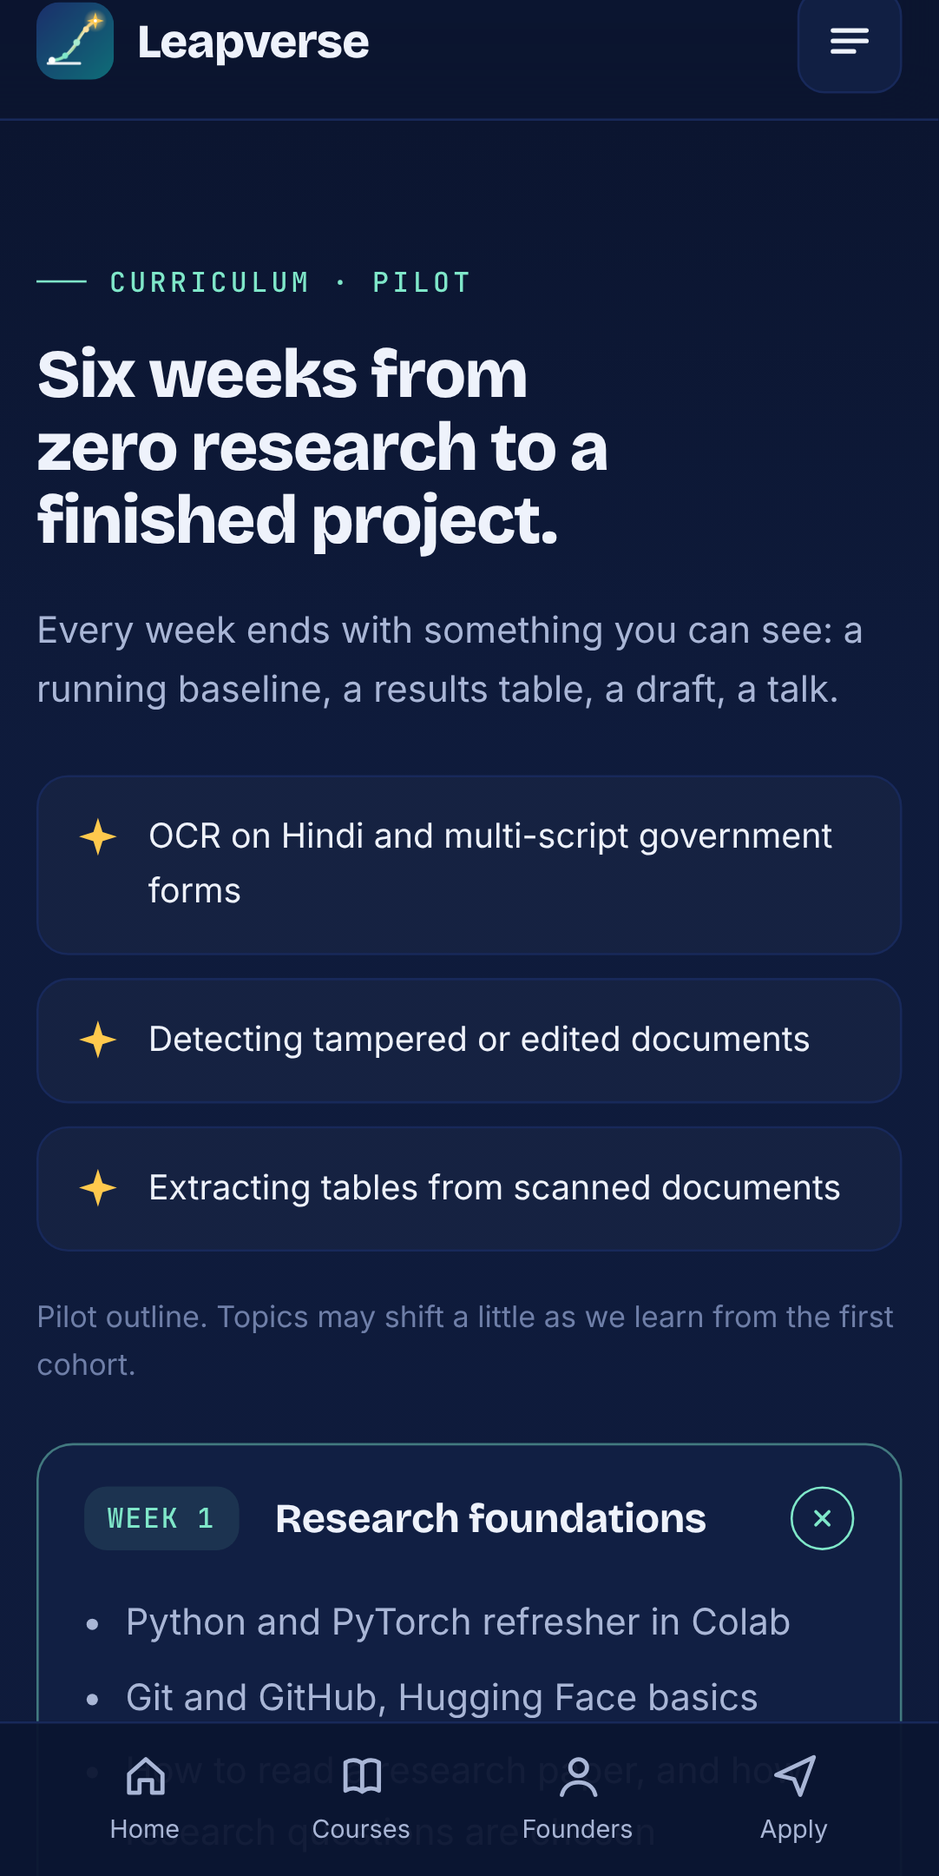
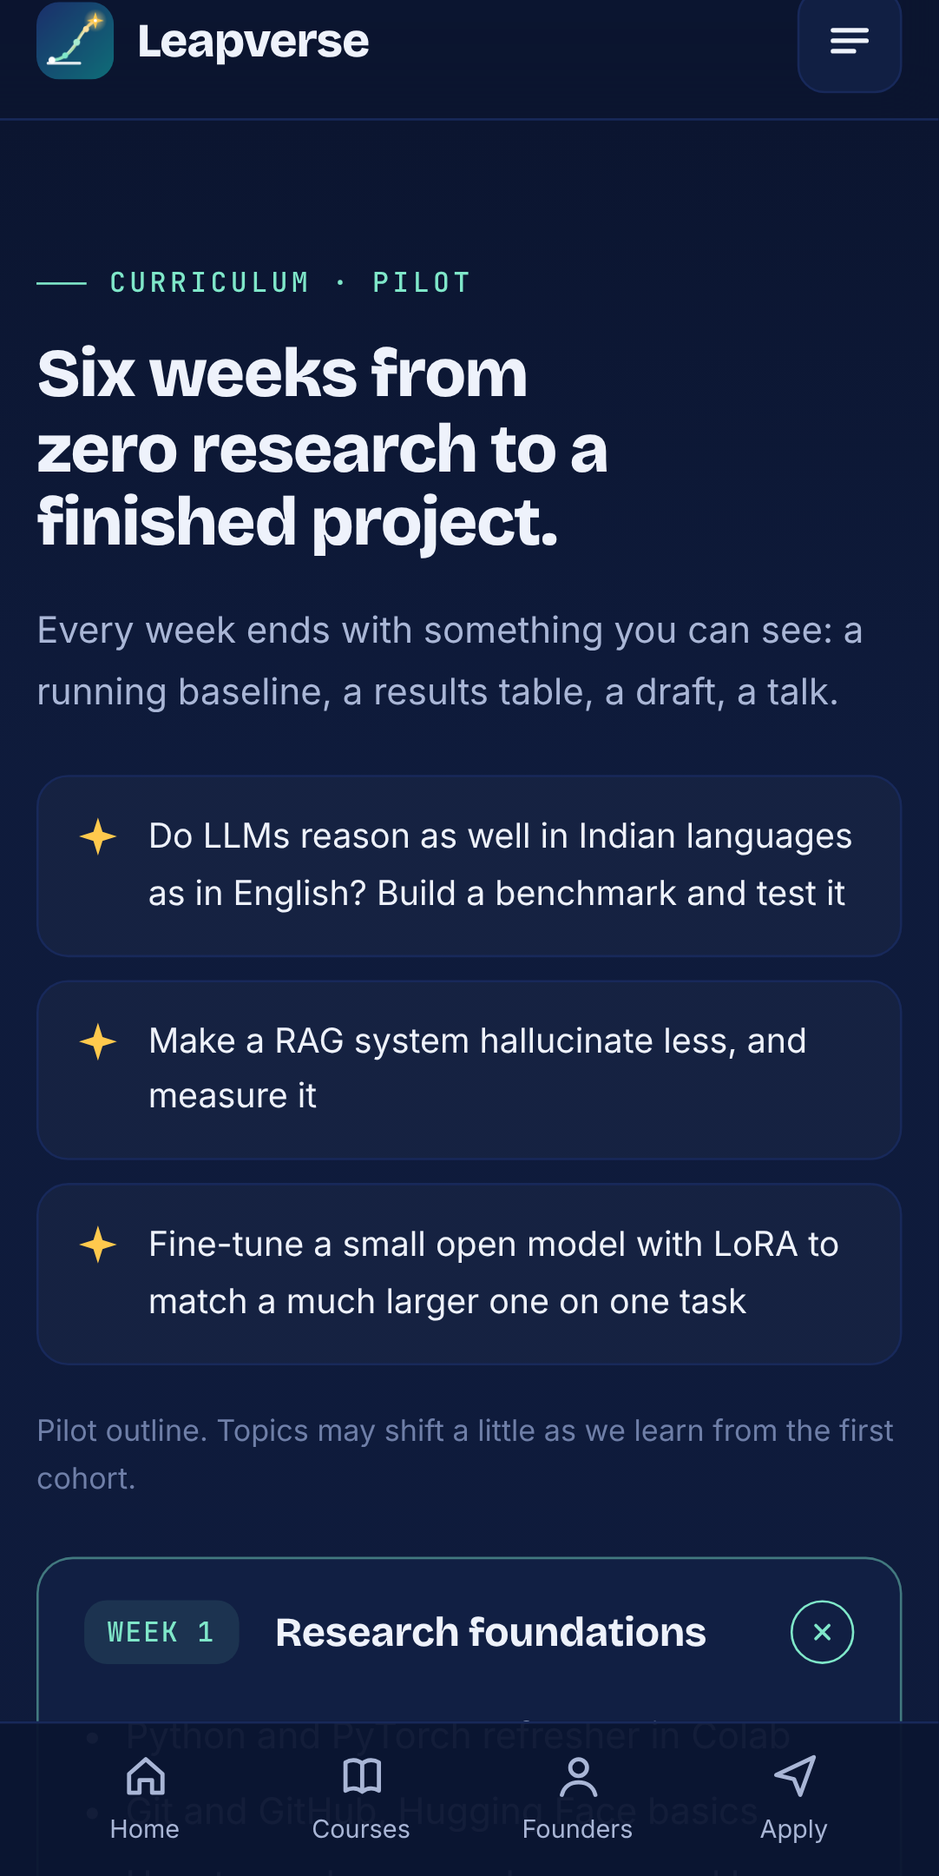
Refocus the site on the latest AI research and host from this repository
The pilot is now a general AI Research Track (LLMs, agents, RAG,
multimodal, fine-tuning, evaluation) instead of document AI. The launch
guide and Android settings now assume GitHub Pages on this repository.

Claude-Session: https://claude.ai/code/session_01D4WqPf5nvVfwbcwiaTwXmP

diff --git a/website/index.html b/website/index.html
@@ -7,7 +7,7 @@
 <meta name="description" content="Leapverse runs mentored AI research projects led by IIT researchers. Build a real project, a paper-style report and a talk, and apply for research internships, MS/PhD and AI jobs with proof.">
 <meta name="theme-color" content="#0b1530">
 <meta property="og:title" content="Leapverse: leap into AI, research and beyond">
-<meta property="og:description" content="Mentored AI research projects led by IIT researchers. Start with the 6-week Document AI Research Track.">
+<meta property="og:description" content="Mentored AI research projects led by IIT researchers. Start with the 6-week AI Research Track on the latest in LLMs, agents and multimodal AI.">
 <meta property="og:image" content="assets/og-image.png">
 <meta property="og:type" content="website">
 <meta name="twitter:card" content="summary_large_image">
@@ -140,6 +140,7 @@ body::before{content:"";position:fixed;inset:0 0 auto;height:env(safe-area-inset
 .facts{display:flex;flex-wrap:wrap;gap:8px}
 .facts span{font-size:13px;padding:6px 11px;border-radius:999px;border:1px solid var(--ink-3);color:var(--text);background:rgba(255,255,255,.03)}
 .mini{display:grid;gap:16px}
+.areas span{font-size:14px;padding:8px 14px;border-color:rgba(127,231,201,.3);background:rgba(127,231,201,.06)}
 @media (max-width:860px){.tracks{grid-template-columns:1fr}.track.feature{grid-row:auto}}
 
 /* curriculum */
@@ -318,9 +319,9 @@ footer a:hover{color:var(--text)}
   <section class="hero" aria-label="Introduction">
     <canvas id="sky" aria-hidden="true"></canvas>
     <div class="wrap">
-      <a class="pill" href="#apply"><b>Pilot</b>Document AI Research Track · 6 weeks · applications open</a>
+      <a class="pill" href="#apply"><b>Pilot</b>AI Research Track · 6 weeks · applications open</a>
       <h1>Leap into <span class="grad">AI, research</span> and beyond.</h1>
-      <p class="lede">Do a real AI research project with mentors who are doing research right now. In six weeks you build working code, a paper-style report and a talk, then use them to apply for research internships, MS/PhD programs and AI jobs.</p>
+      <p class="lede">Work on the latest AI research, from LLMs and agents to multimodal models, with mentors who are doing research right now. In six weeks you build working code, a paper-style report and a talk, then use them to apply for research internships, MS/PhD programs and AI jobs.</p>
       <div class="hero-cta">
         <a class="btn btn-gold" href="#apply">Apply for the pilot<svg><use href="#i-arrow"/></svg></a>
         <a class="btn btn-ghost" href="#curriculum">See the 6-week plan</a>
@@ -354,7 +355,7 @@ footer a:hover{color:var(--text)}
       <div class="who">
         <div class="who-card reveal"><span class="tag">Internships</span><h3>Research-internship applicants</h3><p>2nd and 3rd year students applying to programs like SRIP, GRISHMA, RISE UP, iKDD Uplink, MITACS or DAAD WISE who have no research to show yet.</p></div>
         <div class="who-card reveal"><span class="tag">Higher studies</span><h3>MS and PhD aspirants</h3><p>A real first project with mentor feedback, a paper draft and a talk, which is what admissions committees look for.</p></div>
-        <div class="who-card reveal"><span class="tag">Careers</span><h3>Future document-AI engineers</h3><p>Banking, fintech, insurance, govtech and legal tech need OCR and document AI that work on Indian documents.</p></div>
+        <div class="who-card reveal"><span class="tag">Careers</span><h3>Future AI engineers and scientists</h3><p>Teams building with LLMs and agents hire people who can read new papers, run careful experiments and explain their results.</p></div>
         <div class="who-card reveal"><span class="tag">Colleges</span><h3>Final-year project batches</h3><p>A guided research-project program for a whole batch, or a 2-day intro to AI research workshop.</p></div>
       </div>
     </div>
@@ -366,14 +367,16 @@ footer a:hover{color:var(--text)}
       <div class="sec-head reveal">
         <span class="eyebrow">Courses</span>
         <h2>Start with one track. <span class="grad">Grow into the universe.</span></h2>
+        <p class="lede">We teach what the field is working on now. Research areas for the current cohort:</p>
+        <div class="facts areas"><span>Large language models</span><span>AI agents and tool use</span><span>Retrieval and RAG</span><span>Vision-language and multimodal AI</span><span>Efficient fine-tuning (LoRA)</span><span>Evaluation and benchmarks</span><span>AI safety and reliability</span><span>Generative models</span></div>
       </div>
       <div class="tracks">
         <article class="track feature reveal">
           <span class="status open">Pilot · applications open</span>
-          <h3>Document AI Research Track</h3>
-          <p>Build AI that reads real Indian documents: OCR on Hindi and multi-script forms, spotting tampered documents, pulling tables out of scans. Generic OCR often fails on these, so there is real research to do and real demand for people who can do it.</p>
+          <h3>AI Research Track</h3>
+          <p>Pick a problem from the latest AI research and take it from paper to results. Topics follow what the field is working on now: large language models, retrieval and RAG, AI agents, vision-language models, efficient fine-tuning and model evaluation. Topics are refreshed every cohort, so you always work on current research.</p>
           <div class="facts"><span>6 weeks</span><span>Live weekly class</span><span>Weekly mentor review</span><span>Team project</span><span>Demo day</span></div>
-          <p>Tools you will use: Python, PyTorch, Hugging Face, OpenCV, Tesseract, PaddleOCR, TrOCR, Donut and LayoutLM-style models, GitHub, Colab and Overleaf.</p>
+          <p>Tools you will use: Python, PyTorch, Hugging Face Transformers and PEFT, open LLMs and vision-language models, vector search, Weights &amp; Biases, GitHub, Colab and Overleaf.</p>
           <div><a class="btn btn-gold" href="#apply">Apply for the pilot<svg><use href="#i-arrow"/></svg></a></div>
         </article>
         <div class="mini">
@@ -405,9 +408,9 @@ footer a:hover{color:var(--text)}
         <h2>Six weeks from zero research to a finished project.</h2>
         <p class="lede">Every week ends with something you can see: a running baseline, a results table, a draft, a talk.</p>
         <div class="projects" aria-label="Example projects">
-          <div><svg><use href="#i-star"/></svg><span>OCR on Hindi and multi-script government forms</span></div>
-          <div><svg><use href="#i-star"/></svg><span>Detecting tampered or edited documents</span></div>
-          <div><svg><use href="#i-star"/></svg><span>Extracting tables from scanned documents</span></div>
+          <div><svg><use href="#i-star"/></svg><span>Do LLMs reason as well in Indian languages as in English? Build a benchmark and test it</span></div>
+          <div><svg><use href="#i-star"/></svg><span>Make a RAG system hallucinate less, and measure it</span></div>
+          <div><svg><use href="#i-star"/></svg><span>Fine-tune a small open model with LoRA to match a much larger one on one task</span></div>
         </div>
         <p class="note">Pilot outline. Topics may shift a little as we learn from the first cohort.</p>
       </div>
@@ -422,14 +425,14 @@ footer a:hover{color:var(--text)}
         <details class="week reveal">
           <summary><span class="wk">WEEK 2</span><h3>The problem and a baseline</h3><span class="chev"><svg><use href="#i-plus"/></svg></span></summary>
           <div class="body">
-            <ul><li>Public and licensed datasets only, and why that matters for identity documents</li><li>Run classic OCR baselines (Tesseract, PaddleOCR)</li><li>Evaluation: character and word error rates, honest test splits</li></ul>
+            <ul><li>Find and read the 3 to 5 recent papers closest to your problem</li><li>Reproduce a published baseline with an open model, using public datasets only</li><li>Evaluation: the right metrics, honest test splits, no leakage</li></ul>
             <p class="out"><b>Output</b>A working baseline with numbers on the shared leaderboard</p>
           </div>
         </details>
         <details class="week reveal">
-          <summary><span class="wk">WEEK 3</span><h3>Modern document AI models</h3><span class="chev"><svg><use href="#i-plus"/></svg></span></summary>
+          <summary><span class="wk">WEEK 3</span><h3>Frontier models and methods</h3><span class="chev"><svg><use href="#i-plus"/></svg></span></summary>
           <div class="body">
-            <ul><li>Transformer OCR and document models: TrOCR, Donut, LayoutLM-style models</li><li>Fine-tuning on your dataset with Hugging Face</li><li>Reading the results, not just the score</li></ul>
+            <ul><li>How today's models work: transformers, LLMs, vision-language models</li><li>The methods you will use: prompting, RAG, agents and tool use, LoRA fine-tuning</li><li>Reading the results, not just the score</li></ul>
             <p class="out"><b>Output</b>A model that beats your baseline, or a clear reason why it doesn't</p>
           </div>
         </details>
@@ -495,7 +498,7 @@ footer a:hover{color:var(--text)}
       <div class="sec-head reveal">
         <span class="eyebrow">Founders</span>
         <h2>Taught by people doing the research.</h2>
-        <p class="lede">Leapverse is founded by two IIT researchers heading into PhDs, who work on OCR and document verification and who love teaching it.</p>
+        <p class="lede">Leapverse is founded by two IIT researchers heading into PhDs, who follow the latest AI research closely and love teaching it.</p>
       </div>
       <div class="founders">
         <article class="founder reveal">
@@ -504,7 +507,7 @@ footer a:hover{color:var(--text)}
             <div><h3 style="font-size:26px">Shikhar Dubey</h3><div class="role">Co-founder · Academics and Content</div></div>
           </div>
           <ul>
-            <li><svg><use href="#i-check"/></svg><span>Researcher in OCR and document verification</span></li>
+            <li><svg><use href="#i-check"/></svg><span>AI researcher in computer vision</span></li>
             <li><svg><use href="#i-check"/></svg><span>Presented a research portfolio at IIT Bombay</span></li>
             <li><svg><use href="#i-check"/></svg><span>Workshop speaker at ICVGIP, India's computer vision and graphics conference</span></li>
             <li><svg><use href="#i-check"/></svg><span><span class="todo">Add: degree, institute and PhD plans</span></span></li>
@@ -519,7 +522,7 @@ footer a:hover{color:var(--text)}
             <div><h3 style="font-size:26px">Sanhita Saxena</h3><div class="role">Co-founder · Product and Growth</div></div>
           </div>
           <ul>
-            <li><svg><use href="#i-check"/></svg><span>Researcher in OCR and document verification</span></li>
+            <li><svg><use href="#i-check"/></svg><span>AI researcher in computer vision</span></li>
             <li><svg><use href="#i-check"/></svg><span>Web developer who builds the Leapverse platform</span></li>
             <li><svg><use href="#i-check"/></svg><span>Ran many seminars during BTech</span></li>
             <li><svg><use href="#i-check"/></svg><span><span class="todo">Add: degree, institute and PhD plans</span></span></li>
@@ -543,7 +546,7 @@ footer a:hover{color:var(--text)}
       <div class="prices">
         <div class="price reveal"><span class="lvl">Free</span><div class="amt">₹0</div><ul><li>YouTube lessons</li><li>Live webinars on research internships</li><li>"How to read a paper" guide</li></ul></div>
         <div class="price reveal"><span class="lvl">Starter</span><div class="amt">₹499<small> onwards</small></div><ul><li>Paper-reading bootcamp</li><li>Recorded, 1 to 2 weeks</li><li>Go at your own pace</li></ul></div>
-        <div class="price hot reveal"><span class="lvl">Pilot cohort</span><div class="amt">₹2,999<small> onwards</small></div><ul><li>6-week Document AI Research Track</li><li>Live classes and team project</li><li>Weekly mentor review, demo day</li></ul><a class="btn btn-gold" href="#apply">Apply</a></div>
+        <div class="price hot reveal"><span class="lvl">Pilot cohort</span><div class="amt">₹2,999<small> onwards</small></div><ul><li>6-week AI Research Track</li><li>Live classes and team project</li><li>Weekly mentor review, demo day</li></ul><a class="btn btn-gold" href="#apply">Apply</a></div>
         <div class="price reveal"><span class="lvl">Add-ons</span><div class="amt">₹499<small> onwards</small></div><ul><li>Research CV review</li><li>Mock research interview</li><li>Paper review</li></ul></div>
       </div>
     </div>
@@ -585,7 +588,7 @@ footer a:hover{color:var(--text)}
           <div class="field"><label for="f-year">Year of study</label>
             <select id="f-year" name="year"><option>1st year</option><option selected>2nd year</option><option>3rd year</option><option>4th year</option><option>Graduate</option><option>Other</option></select></div>
           <div class="field"><label for="f-goal">I'm interested in</label>
-            <select id="f-goal" name="goal"><option>Pilot: Document AI Research Track</option><option>Research internships</option><option>MS / PhD admissions</option><option>GATE DA, applied</option><option>My college (workshops or batch program)</option></select></div>
+            <select id="f-goal" name="goal"><option>Pilot: AI Research Track</option><option>Research internships</option><option>MS / PhD admissions</option><option>GATE DA, applied</option><option>My college (workshops or batch program)</option></select></div>
           <div class="field full"><label for="f-msg">Anything else? (optional)</label><textarea id="f-msg" name="message"></textarea></div>
           <div class="field full"><button class="btn btn-gold" type="submit"><svg><use href="#i-send"/></svg>Send my application</button></div>
           <p class="form-msg" id="formMsg" role="status" aria-live="polite"></p>

diff --git a/website/sw.js b/website/sw.js
@@ -1,6 +1,6 @@
 // Leapverse service worker: makes the site installable and usable offline.
 // Bump VERSION whenever you change files so phones pick up the new site.
-const VERSION = "leapverse-v1";
+const VERSION = "leapverse-v2";
 const CORE = ["./", "index.html", "privacy.html", "manifest.webmanifest", "assets/icon.svg", "assets/icon-192.png", "assets/icon-512.png"];
 
 self.addEventListener("install", e => {

diff --git a/docs/06-website-and-app-launch.md b/docs/06-website-and-app-launch.md
@@ -12,7 +12,7 @@ Written 11 November 2026. The website lives in [`website/`](../website/). The An
 | Auto-deploy to GitHub Pages | `.github/workflows/deploy-website.yml` | Ready, runs when `website/` changes on `main` |
 | Android app settings for Bubblewrap | `android/twa-manifest.json` | Ready. Package name `com.leapverse.app` |
 | Play Store images: icon 512×512, feature graphic 1024×500, 5 phone screenshots | `android/store-listing/` | Ready |
-| Digital Asset Links file (removes the browser bar in the app) | `website/.well-known/assetlinks.json` | Needs your key fingerprint (step 4) |
+| Digital Asset Links file (removes the browser bar in the app) | `website/.well-known/assetlinks.json` | Needs a custom domain and your key fingerprint (step 4) |
 
 ## Before you go public: fill in these
 
@@ -23,16 +23,16 @@ Written 11 November 2026. The website lives in [`website/`](../website/). The An
 
 ## Step 1: put the website online (free)
 
-**Recommended: a separate public repository for the website.** It keeps this plan repository private, and gives you the root address `https://shikhar2004-prog.github.io/`, which the Android app needs (step 4).
+Everything is hosted from this repository. The site address will be `https://shikhar2004-prog.github.io/startup-plan/`.
 
-1. On GitHub, create a new **public** repository named exactly `Shikhar2004-prog.github.io`.
-2. Add it to this Claude project (Project settings, Repositories) and ask Claude to publish the `website/` folder to it. Or copy the contents of `website/` (including the hidden `.nojekyll` and `.well-known` folder) into it yourself.
-3. In that repository: **Settings → Pages → Build and deployment → Source: Deploy from a branch → `main` / root → Save.**
-4. After about a minute the site is live at `https://shikhar2004-prog.github.io/`.
+1. **Merge the pull request** that adds `website/` into `main`.
+2. **Allow GitHub Pages on this repository.** It is private, and GitHub only hosts private repositories on a paid plan. Pick one:
+   - **GitHub Pro, free for students (recommended):** apply for the [GitHub Student Developer Pack](https://education.github.com/pack) with your institute email. The repository stays private, so the plan and pricing docs stay hidden, and only the website is public.
+   - **Make the repository public:** Settings → General → Danger Zone → Change visibility → Public. This is instant, but everyone can then read the plan, pricing and strategy docs too.
+3. **Settings → Pages → Build and deployment → Source: GitHub Actions.**
+4. Open the **Actions** tab, choose **Deploy website**, and click **Run workflow** (it also runs by itself whenever `website/` changes on `main`). After about a minute the site is live.
 
-Other options:
-- **Keep it in this repository:** make this repository public, or get GitHub Pro (free with the GitHub Student Developer Pack). Then **Settings → Pages → Source: GitHub Actions**. The workflow publishes to `https://shikhar2004-prog.github.io/startup-plan/`. The app then needs a custom domain for step 4.
-- **Your own domain (for example leapverse.in):** buy it (check it's free first), then in the repository's **Settings → Pages → Custom domain**, enter it and add the DNS records GitHub shows. If you do this, change `host` in `android/twa-manifest.json` to the new domain.
+**Your own domain later (for example leapverse.in):** buy it, then in Settings → Pages → Custom domain, enter it and add the DNS records GitHub shows. Then change `host`, `startUrl`, `iconUrl`, `maskableIconUrl` and `webManifestUrl` in `android/twa-manifest.json` to the new domain.
 
 ## Step 2: Google Play developer account
 
@@ -59,19 +59,19 @@ Other options:
 ```bash
 npm install -g @bubblewrap/cli
 mkdir leapverse-android && cd leapverse-android
-bubblewrap init --manifest https://shikhar2004-prog.github.io/manifest.webmanifest
+bubblewrap init --manifest https://shikhar2004-prog.github.io/startup-plan/manifest.webmanifest
 # accept the defaults; use package id com.leapverse.app (as in android/twa-manifest.json)
 bubblewrap build
 # gives you app-release-bundle.aab and app-release-signed.apk
 ```
 
-## Step 4: remove the browser bar (Digital Asset Links)
+## Step 4: remove the browser bar (needs your own domain)
 
-Without this step the app still works, but shows a small browser address bar at the top.
+The app works without this step, but shows a thin browser address bar at the top. Android only hides that bar when a file called `assetlinks.json` sits at the very root of the website's domain. A site at `shikhar2004-prog.github.io/startup-plan/` cannot put a file at the root, so this step needs a custom domain (see step 1). You can publish the app first and do this later.
 
 1. After you upload the app (step 5), open Play Console → your app → **Test and release → App integrity → App signing**. Copy the **SHA-256 certificate fingerprint** of the *App signing key*.
 2. In `website/.well-known/assetlinks.json`, replace `REPLACE_WITH_SHA256_FINGERPRINT_FROM_PLAY_CONSOLE` with it. Also add the fingerprint from your own upload key (it's in PWABuilder's `assetlinks.json`), so the list has both, separated by a comma.
-3. Publish the website again. Check that `https://shikhar2004-prog.github.io/.well-known/assetlinks.json` opens in a browser.
+3. Publish the website again. Check that `https://your-domain/.well-known/assetlinks.json` opens in a browser.
 
 ## Step 5: create the app in Play Console and upload
 
@@ -81,7 +81,7 @@ Without this step the app still works, but shows a small browser address bar at 
    - Feature graphic: `feature-graphic-1024x500.png`
    - Phone screenshots: the `phone-screenshot-*.png` files (add one of the founders section after you fill in your details)
 3. **App content** (Policy → App content), answer each item:
-   - Privacy policy URL: `https://shikhar2004-prog.github.io/privacy.html`
+   - Privacy policy URL: `https://shikhar2004-prog.github.io/startup-plan/privacy.html`
    - Ads: No ads
    - App access: All functionality is available without special access
    - Content rating: fill the questionnaire (category: Education). Expect a rating for everyone
@@ -102,13 +102,13 @@ Mentored AI research projects for students. Build real work, not certificates.
 
 Leapverse helps college students make their next big leap in AI, research and careers.
 
-Do a real AI research project with mentors who are doing research right now. In six weeks you build working code, a paper-style report and a talk, then use them to apply for research internships, MS/PhD programs and AI jobs.
+Work on the latest AI research, from LLMs and agents to multimodal models, with mentors who are doing research right now. In six weeks you build working code, a paper-style report and a talk, then use them to apply for research internships, MS/PhD programs and AI jobs.
 
-START WITH THE DOCUMENT AI RESEARCH TRACK (PILOT)
+START WITH THE AI RESEARCH TRACK (PILOT)
 • 6 weeks, live online classes, recorded for rewatching
 • Teams of 2 to 3 students, weekly mentor review
-• Real problems: OCR on Hindi and multi-script forms, spotting tampered documents, extracting tables from scans
-• Tools: Python, PyTorch, Hugging Face, OpenCV, Tesseract, PaddleOCR, TrOCR, Donut, GitHub, Colab, Overleaf
+• Problems from the latest AI research: large language models, AI agents, RAG, vision-language models, fine-tuning and evaluation
+• Tools: Python, PyTorch, Hugging Face, open LLMs, vector search, GitHub, Colab, Overleaf
 
 WHAT YOU LEAVE WITH
 • A public GitHub project
@@ -119,7 +119,7 @@ WHAT YOU LEAVE WITH
 WHO IT'S FOR
 • Students applying for research internships
 • MS and PhD aspirants
-• Students who want careers in document AI for banking, fintech, insurance and govtech
+• Students who want careers as AI engineers and scientists
 • Colleges looking for guided final-year research projects
 
 You need basic Python. No research experience needed.
@@ -130,5 +130,5 @@ We never promise placements. We help you build work you can show.
 
 ## Updating later
 
-- **Website and app content:** edit `website/`, merge to `main` (or push to the website repository). The app shows the new content automatically. Bump `VERSION` in `website/sw.js` so phones drop the old cached copy.
+- **Website and app content:** edit `website/` and merge to `main`. The app shows the new content automatically. Bump `VERSION` in `website/sw.js` so phones drop the old cached copy.
 - **App itself** (icon, name, package settings): rebuild with the same signing key, raise the version code by 1, upload a new release.
